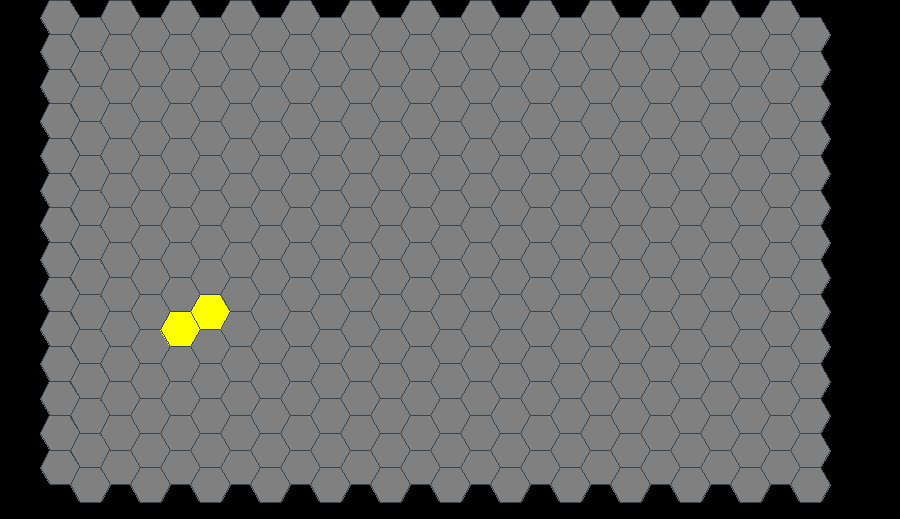
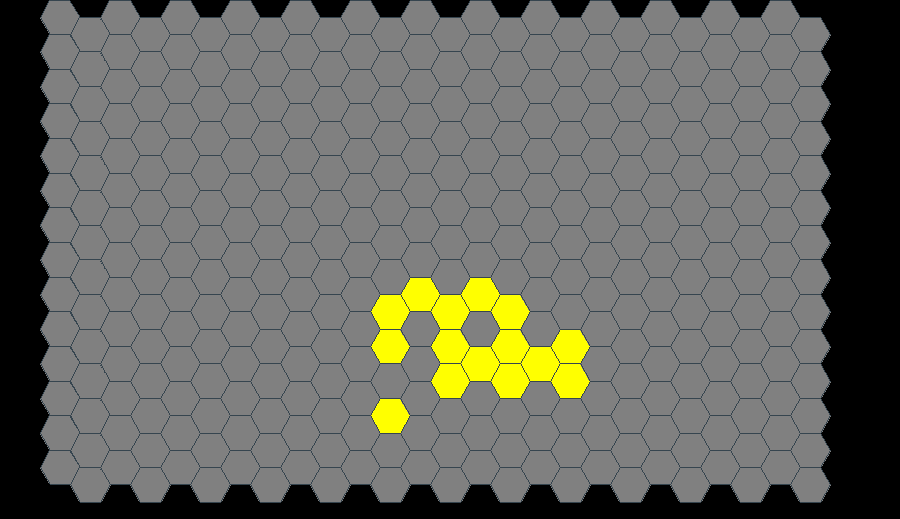
genimgs

Changed region(s): [[0.4044, 0.5241, 0.6533, 0.7707], [0.1556, 0.5549, 0.28, 0.6782], [0.4044, 0.7707, 0.4667, 0.8324]]

diff --git a/Task1/Task1Main.py b/Task1/Task1Main.py
@@ -41,8 +41,8 @@ def creatematrix(rows, cols, initial_value):
 
 # board randomizer you may change the range of x and y to get random cells in that particular area of the board
 currentboard = creatematrix(cols, rows, 0)
-for x in range(3, 7):
-    for y in range(17, 23):
+for x in range(5, 10):
+    for y in range(15, 25):
         currentboard[x][y] = random.randint(0, 1) # 0 is dead 1 is alive so in our random fxn 50-50 chance of dead or alive
 
 # Function to count neighbors
